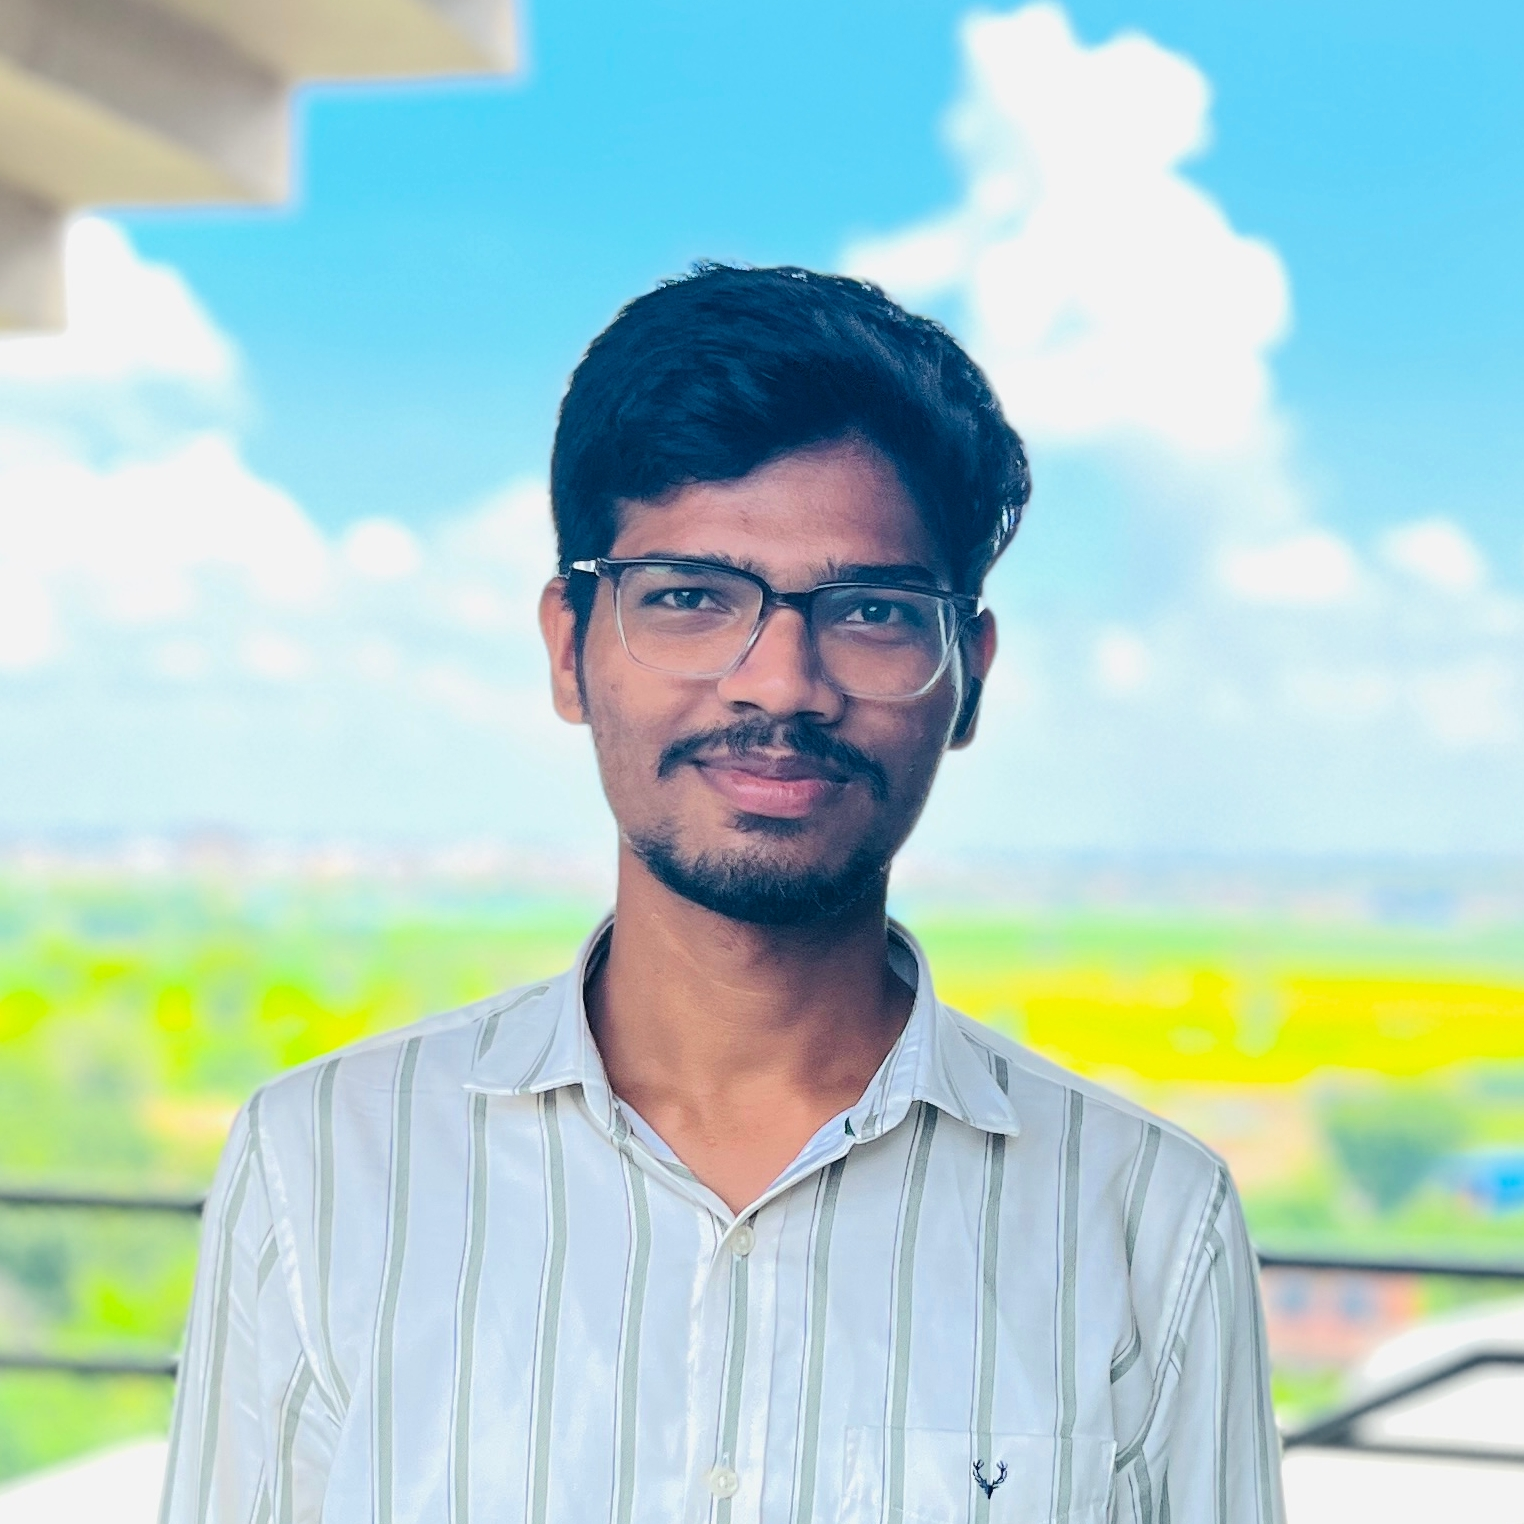
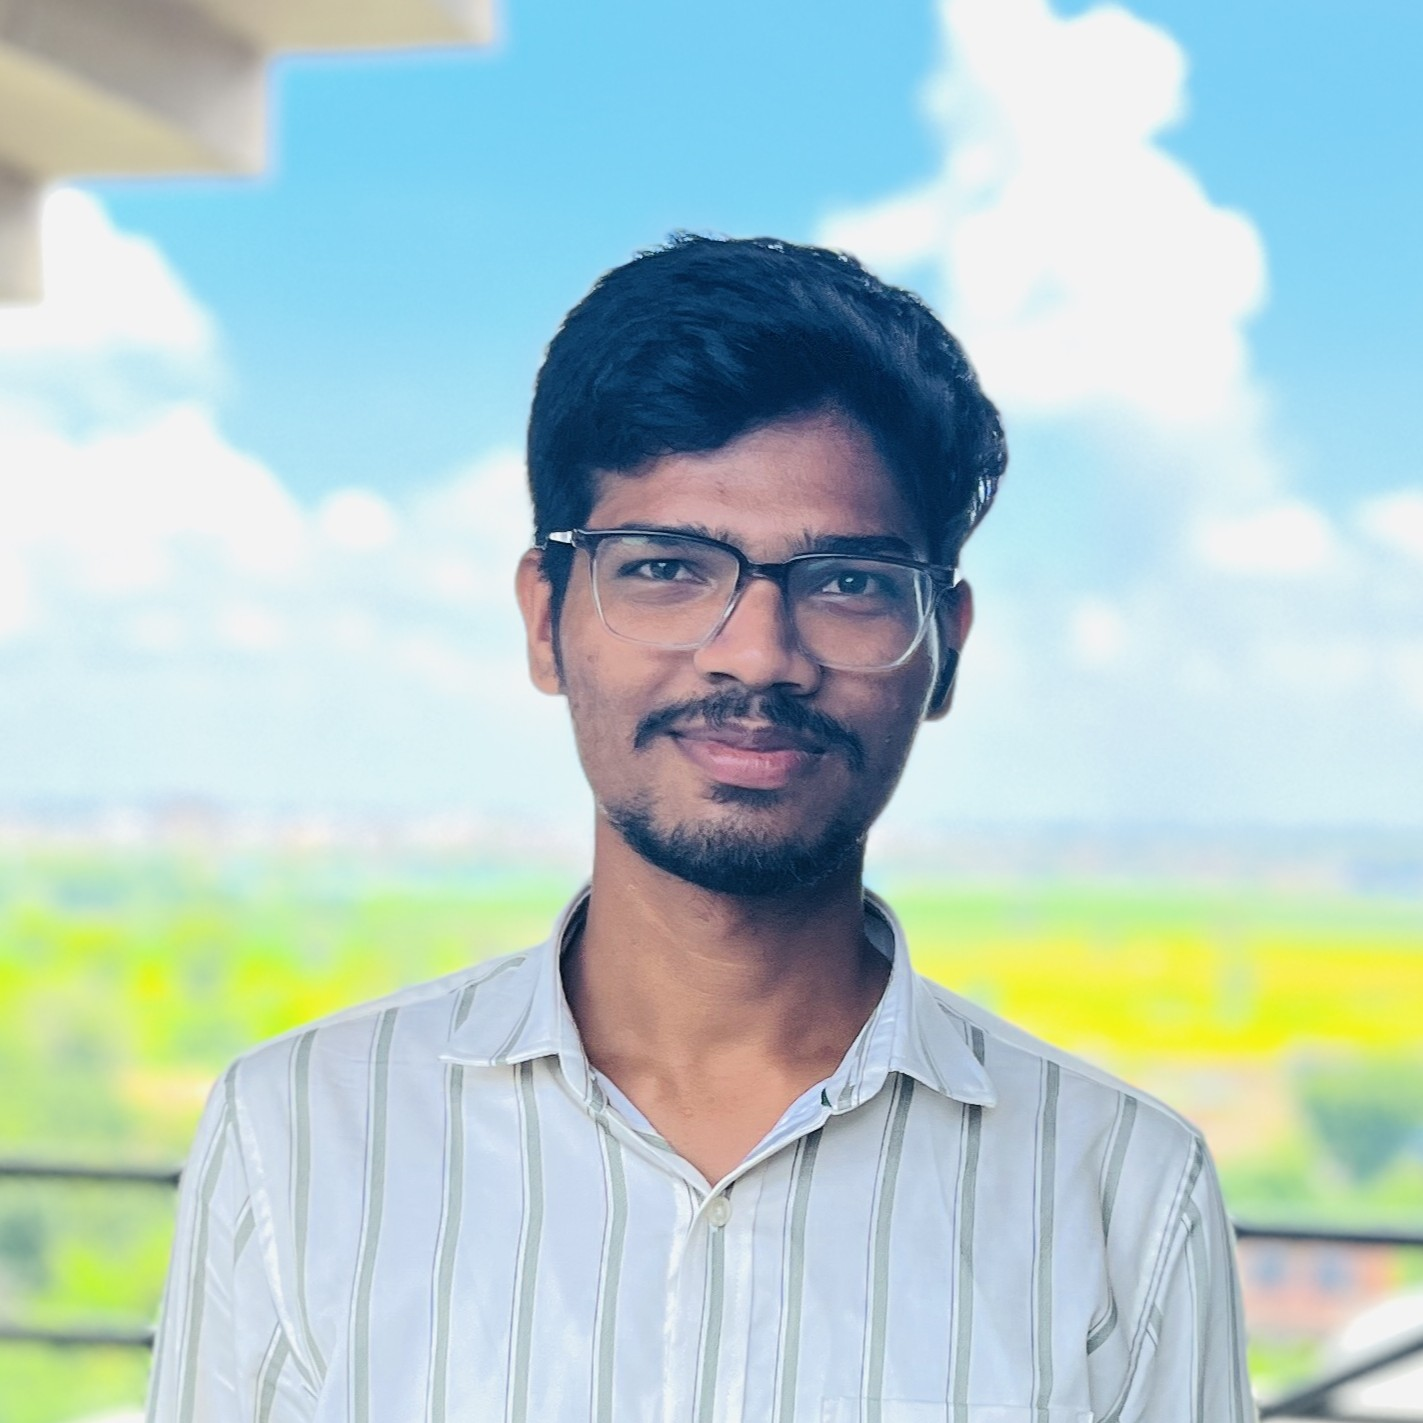
Update portfolio design and assets

diff --git a/style.css b/style.css
@@ -3,6 +3,7 @@
   padding: 0;
   box-sizing: border-box;
   font-family: "Poppins", "Montserrat", sans-serif;
+  text-decoration: none;
 }
 
 html {
@@ -81,10 +82,22 @@ header {
   z-index: 1000;
 }
 
-.logo {
-  font-size: 1.5rem;
-  font-weight: 700;
-  color: #022b4e;
+.navbar .logo {
+  font-family: serif;
+    font-size: 18px;
+    font-weight: 700;
+    letter-spacing: 2px;
+    color: black;
+    text-decoration: none;
+}
+
+.logo a{
+  color: black;
+}
+
+.navbar .logo span {
+    display: inline-block;
+    transform: scaleX(0.9);
 }
 
 /* Desktop Nav Links */
@@ -208,7 +221,7 @@ header {
 .about-section,
 #academics,
 #skills,
-#projects,
+#works,
 .certificates-section,
 .contact-section {
   width: 100%;
@@ -223,7 +236,7 @@ header {
 .about-section h2,
 #academics h2,
 #skills h2,
-#projects h2,
+#works h2,
 .certificates-section h2 {
   font-size: 1.8rem;
   font-weight: 700;
@@ -236,7 +249,7 @@ header {
 .about-section h2::after,
 #academics h2::after,
 #skills h2::after,
-#projects h2::after,
+#works h2::after,
 .certificates-section h2::after {
   content: "";
   display: block;
@@ -399,7 +412,7 @@ header {
 }
 
 /* Projects */
-#projects {
+#works {
   background: #f8fbfd;
 }
 

diff --git a/index.html b/index.html
@@ -57,13 +57,13 @@
     <!-- Header -->
     <header>
       <nav class="navbar">
-        <div class="logo">Gaurav</div>
+
+        <div class="logo"><a href="#hero">G<span>Λ</span>UR<span>Λ</span>V</a></div>
         <ul class="nav-links">
-          <li><a href="#hero" class="active">Home</a></li>
-          <li><a href="#about">About Me</a></li>
+          <li><a href="#about">About</a></li>
           <li><a href="#academics">Academics</a></li>
           <li><a href="#skills">Skills</a></li>
-          <li><a href="#projects">Projects</a></li>
+          <li><a href="#works" class="active">Work</a></li>
           <li><a href="#certificates">Certificates</a></li>
           <li><a href="#contact">Contact</a></li>
           <li>
@@ -184,8 +184,8 @@
     </section>
 
     <!-- Projects Section  -->
-    <section id="projects" class="section-container">
-      <h2 class="reveal fade-right">Projects</h2>
+    <section id="works" class="section-container">
+      <h2 class="reveal fade-right">Selected Work</h2>
       <div class="projects-container">
         <div class="project-card reveal zoom">
           <h3>
